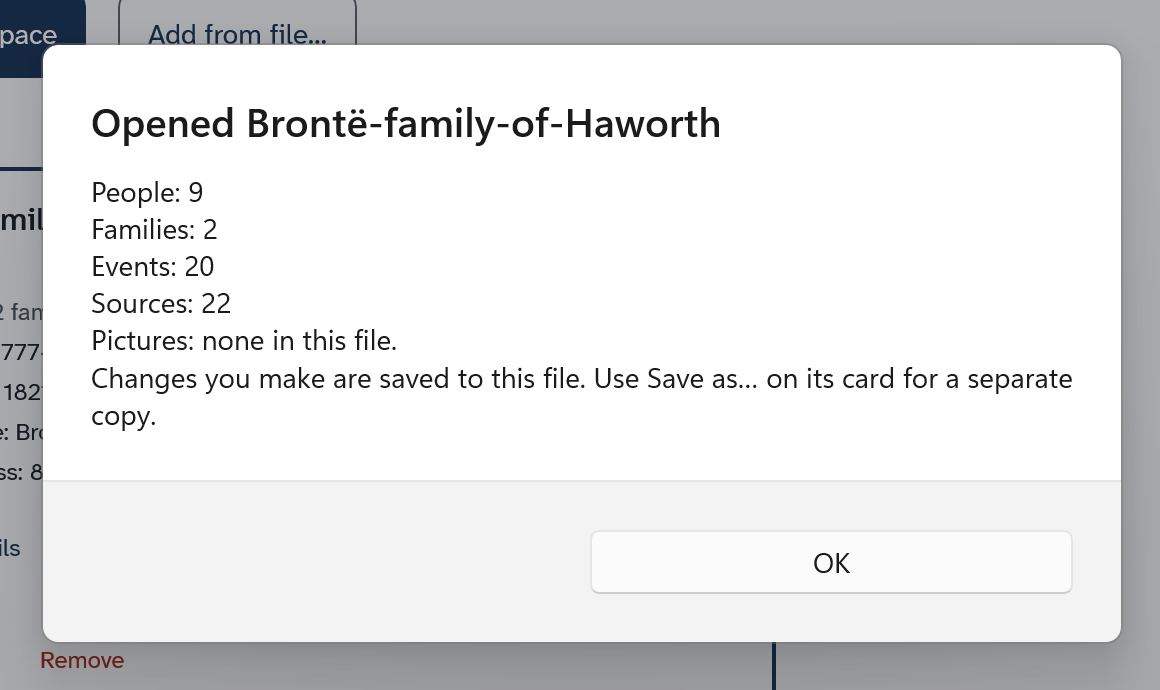
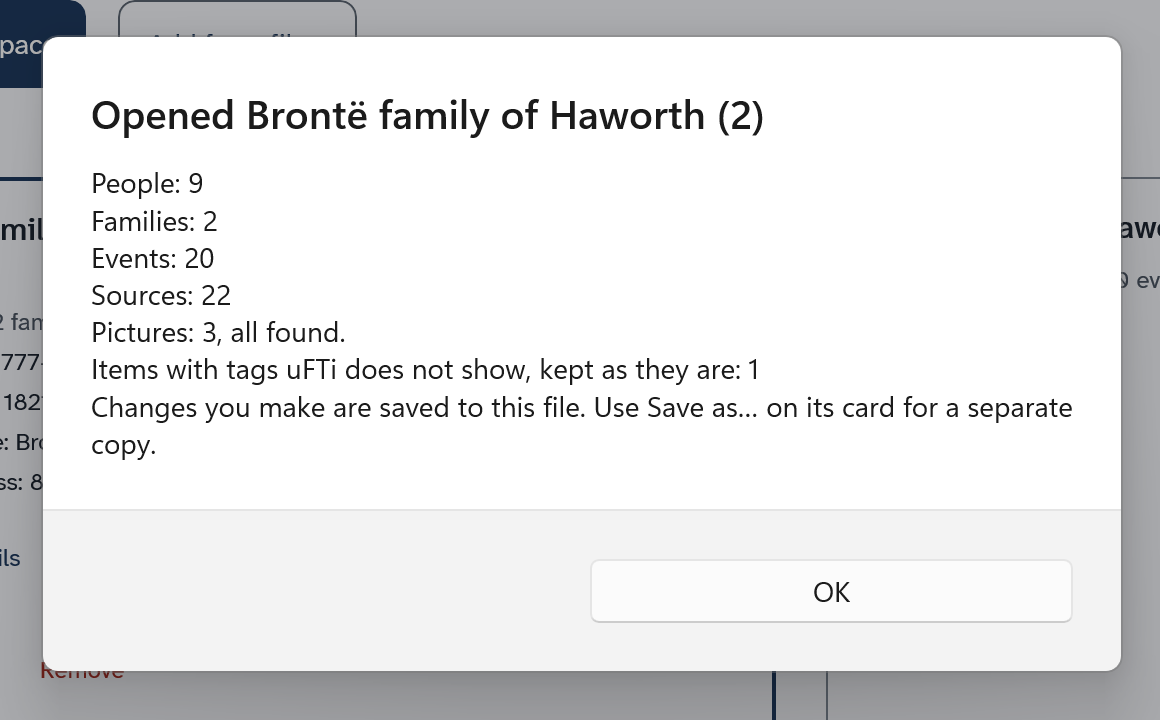
docs: follow the fixes in the next Alpha build of the Windows app (issue 63)
Six findings of the Alpha-1 walk are fixed on the app's development branch:
a typed partner name, the message after Save as, the Showing chip, the Sources
badges, plain reasons on Add a record and the title of the summary after a file
opens. Topics, four pictures, two new pictures, the walk report, the terminology
list and the decision log (DEC-125) follow.

diff --git a/authoring/walks/alpha-1-windows.md b/authoring/walks/alpha-1-windows.md
@@ -1,6 +1,6 @@
 # The Alpha-1 Windows walk
 
-What was walked, what was found and what the manual does about it. Part of the [authoring plan](../authoring-plan.md). Written 24 October 2026 for [issue 54](https://github.com/oughnic/uFTi-Docs/issues/54). Decisions: DEC-122 and DEC-123.
+What was walked, what was found and what the manual does about it. Part of the [authoring plan](../authoring-plan.md). Written 24 October 2026 for [issue 54](https://github.com/oughnic/uFTi-Docs/issues/54). Decisions: DEC-122 and DEC-123. The retest on the next Alpha build is in section 5 ([issue 63](https://github.com/oughnic/uFTi-Docs/issues/63), DEC-125).
 
 The app is the Windows Alpha-1 build (version 0.1.0.1, a development build), in the Oxford and slate theme and the light look, in a window 1280 by 800 on a 200% display. The data is the Brontë dataset only. This report says what a reader can see. It names no code, no issue and no build of the application repository (DEC-040, and the standing rule that this repository is public).
 
@@ -24,17 +24,17 @@ Not walked: taking a photo, adding a picture from a file, the forms for a census
 | 1 | First run | The app opens with two other samples. The Brontë sample is not there. | The Quick Start does not promise the sample. A page that explores it waits for the app to include it. |
 | 2 | First run | The look follows the system, so it may be dark. | [Choose how the app looks](../../content/platforms/desktop/topics/choose-how-it-looks.dita) says how to set light. |
 | 3 | A person's page | **Events**, **Notes** and **Family tree** say "Select a person" or "No person selected" until someone is open. | [A page says no person is selected](../../content/platforms/desktop/topics/a-page-says-no-person-selected.dita). |
-| 4 | Search results | A small round badge on a person's card shows 0 and has no label. | Not mentioned. |
-| 5 | Notes | A round badge beside **Notes** shows 0 after a note was saved. It is not clear what it counts. | Not mentioned. |
+| 4 | Search results | A small round badge on a person's card shows 0 and has no label. | Fixed in the next Alpha build (section 5): [Find a person](../../content/platforms/desktop/topics/find-a-person.dita) says what the badge counts. |
+| 5 | Notes | A round badge beside **Notes** shows 0 after a note was saved. It is not clear what it counts. | Fixed in the next Alpha build (section 5): the badge says *Sources: 0*. The Notes picture is made again. |
 | 6 | New person and Family forms | The **Save** button is below the first screen. The page must be scrolled. | The topics say to scroll. |
 | 7 | New person, Family and Note forms | A button named **Fill from document…** shows. Documents are out of scope. | Described without it. |
 | 8 | **About uFTi** | It shows AI models and document reading. These are out of scope. | The page is not pictured. |
-| 9 | **Add a record** | Some words are hard: "No subject could plausibly have existed in the window 1861", "This form is for a different kind of record". | The topics do not repeat them. They are a candidate for plainer words. |
-| 10 | **Save as…** | Nothing on screen says the copy was saved or where. The Windows save box opens in the reader's Documents folder. | [Keep it safe](../../content/platforms/windows/topics/keep-it-safe.dita) says to look in the folder. The save box is never pictured (DEC-122). |
-| 11 | Opening a file | The summary writes the name with hyphens. The card writes it with spaces. A second file of the same name is called "(2)" on the card and "-2" in the summary. | [Open a family tree file](../../content/platforms/desktop/topics/open-a-family-tree-file.dita) says they are the same tree. |
-| 12 | The top bar | The chip that starts with **Showing** keeps a person's name after the tree that person came from is removed. | Not mentioned. |
+| 9 | **Add a record** | Some words are hard: "No subject could plausibly have existed in the window 1861", "This form is for a different kind of record". | Fixed in the next Alpha build (section 5): the reasons are in plain words, and [Add another person](../../content/platforms/desktop/topics/add-another-person.dita) quotes one. |
+| 10 | **Save as…** | Nothing on screen says the copy was saved or where. The Windows save box opens in the reader's Documents folder. | Fixed in the next Alpha build (section 5): [Keep it safe](../../content/platforms/windows/topics/keep-it-safe.dita) describes the message. The save box is never pictured (DEC-122). |
+| 11 | Opening a file | The summary writes the name with hyphens. The card writes it with spaces. A second file of the same name is called "(2)" on the card and "-2" in the summary. | Fixed in the next Alpha build (section 5): [Open a family tree file](../../content/platforms/desktop/topics/open-a-family-tree-file.dita) no longer has the note about hyphens. |
+| 12 | The top bar | The chip that starts with **Showing** keeps a person's name after the tree that person came from is removed. | Fixed in the next Alpha build (section 5): [A page says no person is selected](../../content/platforms/desktop/topics/a-page-says-no-person-selected.dita) says the chip clears. |
 | 13 | Windows boxes | The name box, the remove question and the file pickers use the Windows blue and the Windows light or dark setting, not the app's theme. | Not mentioned. |
-| 14 | The family form | A new child can be added in a row by name, or chosen from the tree with **Set…**, which opens a small window. The partner must be chosen from the list that opens as you type. Typing alone does not set it. | [Add a family with children](../../content/platforms/desktop/topics/add-a-family.dita). |
+| 14 | The family form | A new child can be added in a row by name, or chosen from the tree with **Set…**, which opens a small window. The partner must be chosen from the list that opens as you type. Typing alone does not set it. | Partly fixed in the next Alpha build (section 5): [Add a family with children](../../content/platforms/desktop/topics/add-a-family.dita) says a whole name that only one person has is taken. The child rows are unchanged. |
 | 15 | **Photos** | The three buttons have icons and no words. The chain button links a picture already in the tree. | [The Photos buttons](../../content/platforms/desktop/topics/the-photos-buttons.dita). Taking a photo and adding a file are not described. |
 | 16 | The Brontë sample | It has no repositories, submitters, notes or research notes. | The three empty pages are pictured as they are. |
 | 17 | A source | **Remove** beside a source: the manual says it takes the source off the fact. The effect on the source itself was not tested. | To be checked on the next walk. |
@@ -50,3 +50,38 @@ The automation tool opens no result card, list row or native box. The walk used 
 - A census form and a register-entry form.
 - Test the **Remove** button on a source.
 - Bring in the Brontë sample when the app includes it, and write the Quick Start page that explores it.
+
+## 5. The next Alpha build
+
+Walked on 24 October 2026 for [issue 63](https://github.com/oughnic/uFTi-Docs/issues/63). The app team fixed several findings on their development branch, which is not a release. This walk used a build made from that branch, in the same Oxford and slate light look and window as before. The version it prints is still 0.1.0.1 (1), so the date is what tells the two builds apart. The data is the Brontë dataset and the Brontë sample only. Decision: DEC-125.
+
+Each finding of section 2 is marked below. *Fixed* means it was seen on screen in this walk.
+
+| # | In the next Alpha build | What was seen |
+|---|---|---|
+| 1 | Changed | The first run now opens the Brontë family of Haworth sample, beside two other samples. The Quick Start is not changed in this walk. See section 6. |
+| 2 | Not retested | The look was set to light before the walk. |
+| 3 | Not retested | |
+| 4 | **Fixed** | The badge on a person's card in the search results reads *Sources: 10* and *Sources: 11*. |
+| 5 | **Fixed** | The badge beside **Notes** reads *Sources: 0*. |
+| 6 | Not fixed | **Save** is still below the first screen on the New person and Family forms. |
+| 7 | Not fixed | **Fill from document…** still shows on the New person and Family forms. The app team moves document reading to a later alpha. The manual still describes the forms without it. |
+| 8 | Not fixed | **About uFTi** still lists AI models and document reading. It stays out of the manual. |
+| 9 | **Fixed** | The **More forms** list says, for example, "This form covers 1881, and going by the dates in the tree, nobody here was alive then.", "What this form records is already recorded here." and "This form adds a different kind of record from the one you have open." |
+| 10 | **Fixed** | After **Save as…** a message at the bottom of the screen names the file and the folder, and says which version of GEDCOM it wrote. It stays on screen for as long as it was left, and goes when it is chosen. The Windows save box still opens in the Documents folder. |
+| 11 | **Fixed** | The summary after a file opens is titled *Opened Brontë family of Haworth (2)*, as its card is. It now also says how many pictures the file has, and if it holds anything the app does not show. |
+| 12 | **Fixed** | The **Showing** chip is empty after the tree its person came from is removed. The second crumb in the top line still named the removed tree until the app was started again. |
+| 13 | Not fixed | The name box, the remove question, the question *Discard changes?* and the file boxes still use the Windows look. |
+| 14 | **Fixed** (partner) | A full name typed in the partner box is taken when one person has that name: the family was saved with that partner. When two people have the name, the box turns red and says "Choose a person from the list for 'Wife / partner 2', or clear the box." The child rows were not retested. |
+| 15 | Not retested | |
+| 16 | Not retested | The sample is now the one the app brings with it. |
+| 17 | Not retested | |
+
+Seen on the way, not investigated: after **Save** on the Family form, the form stayed on screen for several seconds, and choosing another page in that time asked *Discard changes?* The family had been saved.
+
+Pictures made again: the search results, the summary after a file opens, the Workspaces screen and the Notes page. New pictures: the message after **Save as…** and the end of the **Add a record** list. The other pictures were not made again. The screens they show were looked at again where a fix could reach them (a person's page, the Events list, the chips that count sources), and the words on them did not change.
+
+## 6. For a later walk
+
+- The first run now holds the Brontë sample. The Quick Start page that explores it can be written, and the first-run picture and the Quick Start steps about the first screen need a new look.
+- Test the **Remove** button on a source, the child rows of the Family form, and the Photos buttons on this build.

diff --git a/authoring/decision-log.md b/authoring/decision-log.md
@@ -122,6 +122,7 @@ Part of the [authoring plan](authoring-plan.md). Status: Draft 0.4, 16 October 2
 | DEC-122 | **The Windows manual's pictures are made from the Alpha-1 build by the app's own screens, with the real mouse and keyboard.** A person or the capture tool opens each screen, types the BrontÃ« data and takes the picture. A picture of a native Windows box (the name box, the remove question, the summary after a file opens, the two save choices) is cut from the real screen to the app window. **The Windows file pickers are never pictured**, because they open in the reader's own Documents folder. The pictures carry the app version 0.1.0.1 and the date, and are replaced when the app's words change. | Proposed (issue 54, 24 October 2026) | The automation tool cannot open a result card or press a native box, so the earlier pictures needed a script to edit the saved file. A real click removes that route and shows what a reader sees. A picture of a file picker would show the folders of whoever took it. | The tool opens cards and native boxes. |
 | DEC-123 | **A label that the Windows Alpha-1 build words differently is defined in the Windows key map, and the shared key stays for Android.** The menu now says *Family tree* and *Events* where the first build said *Family* and *Facts*, so the Windows map defines `ui-family-tree` and `ui-events`, and `ui-family` and `ui-facts` stay for the Android phone until it changes. | Proposed (issue 54, 24 October 2026) | A key that both devices share must not change under one of them. The Windows map is included first, so a topic written for the computer uses its own key. | The Android phone app uses the same words, when the shared keys can move. |
 | DEC-124 | **The header of the two GEDCOM 7 sample files is fixed by hand, not made again by the app.** The app team found two departures from GEDCOM 7 in both: the header date had a mixed-case month (`19 Oct 2026`, now `19 OCT 2026`) and the copyright line sat under the header's source structure (now directly under the header). Only those four lines changed, the sizes are the same, and the GEDCOM 5.5.1 files are untouched. The files are published to `bronte-sample-latest` by the CI (DEC-121), and the app swaps its bundled copy for the new one. | **Accepted** (the app team's report, 24 October 2026) | A new export from the app would drop the three media links added by hand on 21 October 2026 (DEC-120), and the whole sourced file would need checking again. A byte diff of four lines is exact, and the sample README keeps the checksums before and after. | The sample files are made again by the app at a later stage (DEC-112), with a header that already follows GEDCOM 7. |
+| DEC-125 | **The Windows manual follows the next Alpha build of the app, walked from a build of the app's development branch.** Six findings of the Alpha-1 walk are fixed there, and the pages and pictures are changed to match: a partner typed in the Family form is taken when only one person has the name, and the box says at once to choose from the list when more than one has it; **Save as…** ends with a message that names the file and its folder and stays until it is chosen; the **Showing** chip clears when its tree is removed; every count badge reads *Sources: N* and a person's card shows real counts; **Add a record** gives its reasons in plain words; and the summary after a file opens is titled as its card is, so the note about hyphens goes. Six pictures change (the search results, the summary after a file opens, the Workspaces screen, the Notes page, and two new ones: the message after **Save as…** and the end of the **Add a record** list). The version the app prints is still 0.1.0.1 (1), so the pictures carry that version and the date, and every picture is made again on the first release candidate (DEC-023). Document reading and the AI models on **About uFTi** move to a later alpha and stay out of the manual (DEC-020). | Proposed (issue 63, 24 October 2026) | The app team fixed these on their development branch, which is not a release. The pages say what a reader sees, so they follow what was walked on that build. A picture that shows old words would teach the wrong thing. | The first release candidate, or a change to any of the six. |
 
 ## 2. Open questions
 
@@ -192,3 +193,4 @@ Part of the [authoring plan](authoring-plan.md). Status: Draft 0.4, 16 October 2
 | 24 October 2026 | Plugin 1.4.0 is pinned ([issue 42](https://github.com/oughnic/uFTi-Docs/issues/42)). DEC-045 gives its full reason (DITA-OT writes topics relative to the top of the tree, the plugin works from the map's folder) and a new revisit trigger; DEC-050 adds the plugin's `GOVK015W` and its limit; DEC-051 notes the idref fix and that a diagram with links is a group; DEC-054 empties the exceptions list. The metadata checker reads its tables from the installed plugin, so the five table pins are dropped. |
 | 24 October 2026 | The Alpha-1 Windows walk ([issue 54](https://github.com/oughnic/uFTi-Docs/issues/54)): the Windows Quick Start pictures are retaken and the manual gains the chapter "Work with your tree", with 36 pictures made by the real mouse and keyboard (DEC-122). The Windows map defines the words the Alpha-1 build changed (DEC-123). The barriers the walk found are in [the walk report](walks/alpha-1-windows.md). |
 | 24 October 2026 | The two GEDCOM 7 sample files get a corrected header ([issue 57](https://github.com/oughnic/uFTi-Docs/issues/57)): the date has its month in capitals and the copyright line sits directly under the header, as GEDCOM 7 wants (DEC-124). The CI publishes the fixed files to the `bronte-sample-latest` release. |
+| 24 October 2026 | The Windows manual follows the fixes in the next Alpha build ([issue 63](https://github.com/oughnic/uFTi-Docs/issues/63)): six findings of the Alpha-1 walk are fixed, four pictures change and two are new (DEC-125). The walk report says which finding is fixed and which is not. |

diff --git a/authoring/terminology.md b/authoring/terminology.md
@@ -93,7 +93,7 @@ These are not labels in a key map. The pages do not repeat them.
 
 | What is on screen | What the documentation does | Change |
 |---|---|---|
-| A workspace's name printed with hyphens | Pictures show the app as it is (DEC-091). | **Asked** |
+| A workspace's name printed with hyphens | Fixed in the next Alpha build: the summary after a file opens is titled as its card is (DEC-125). The page no longer mentions it. | **Fixed** |
 | *Entered via* and a version number on a person's page | Pictures show the app as it is (DEC-091). | **Asked** |
 | The *Citation reference* box on the source form | Pages tell the reader to fill in *Title* only, because the box does not keep what is typed (DEC-090). | **Asked** (a fix, not a new word) |
 | File paths printed on cards | Pictures are cropped so no path shows (DEC-091, DEC-096). | **Asked** (DEC-097) |
@@ -113,7 +113,8 @@ Read from the Windows app (version 0.1.0.1, Alpha-1 build) on 24 October 2026 ([
 | `ui-research-questions-and-notes` | Research questions and notes | The menu item and page for your list of questions and ideas. | none |
 | `ui-preferences` | Preferences | The menu item and page for the colours and the light or dark look. | none |
 | `ui-about-ufti` | About uFTi | The menu item for the page about the app. | none |
-| `ui-showing` | Showing | The start of the chip at the top that names the person the pages show. | none |
+| `ui-more-forms` | More forms | The button at the end of the Add a record list that shows the forms that do not fit the person. The app adds a count in brackets, such as *More forms (10)*. | none |
+| `ui-showing` | Showing | The start of the chip at the top that names the person the pages show. The chip clears when the tree that person came from is removed. | none |
 | `ui-show-details` | Show details | The link on a workspace card that shows its file. | none |
 | `ui-remove` | Remove | The button on a card, or in a box, that takes a tree off the list, or a source off a fact. | none |
 | `ui-cancel` | Cancel | The button that leaves a box or a form without a change. | none |
